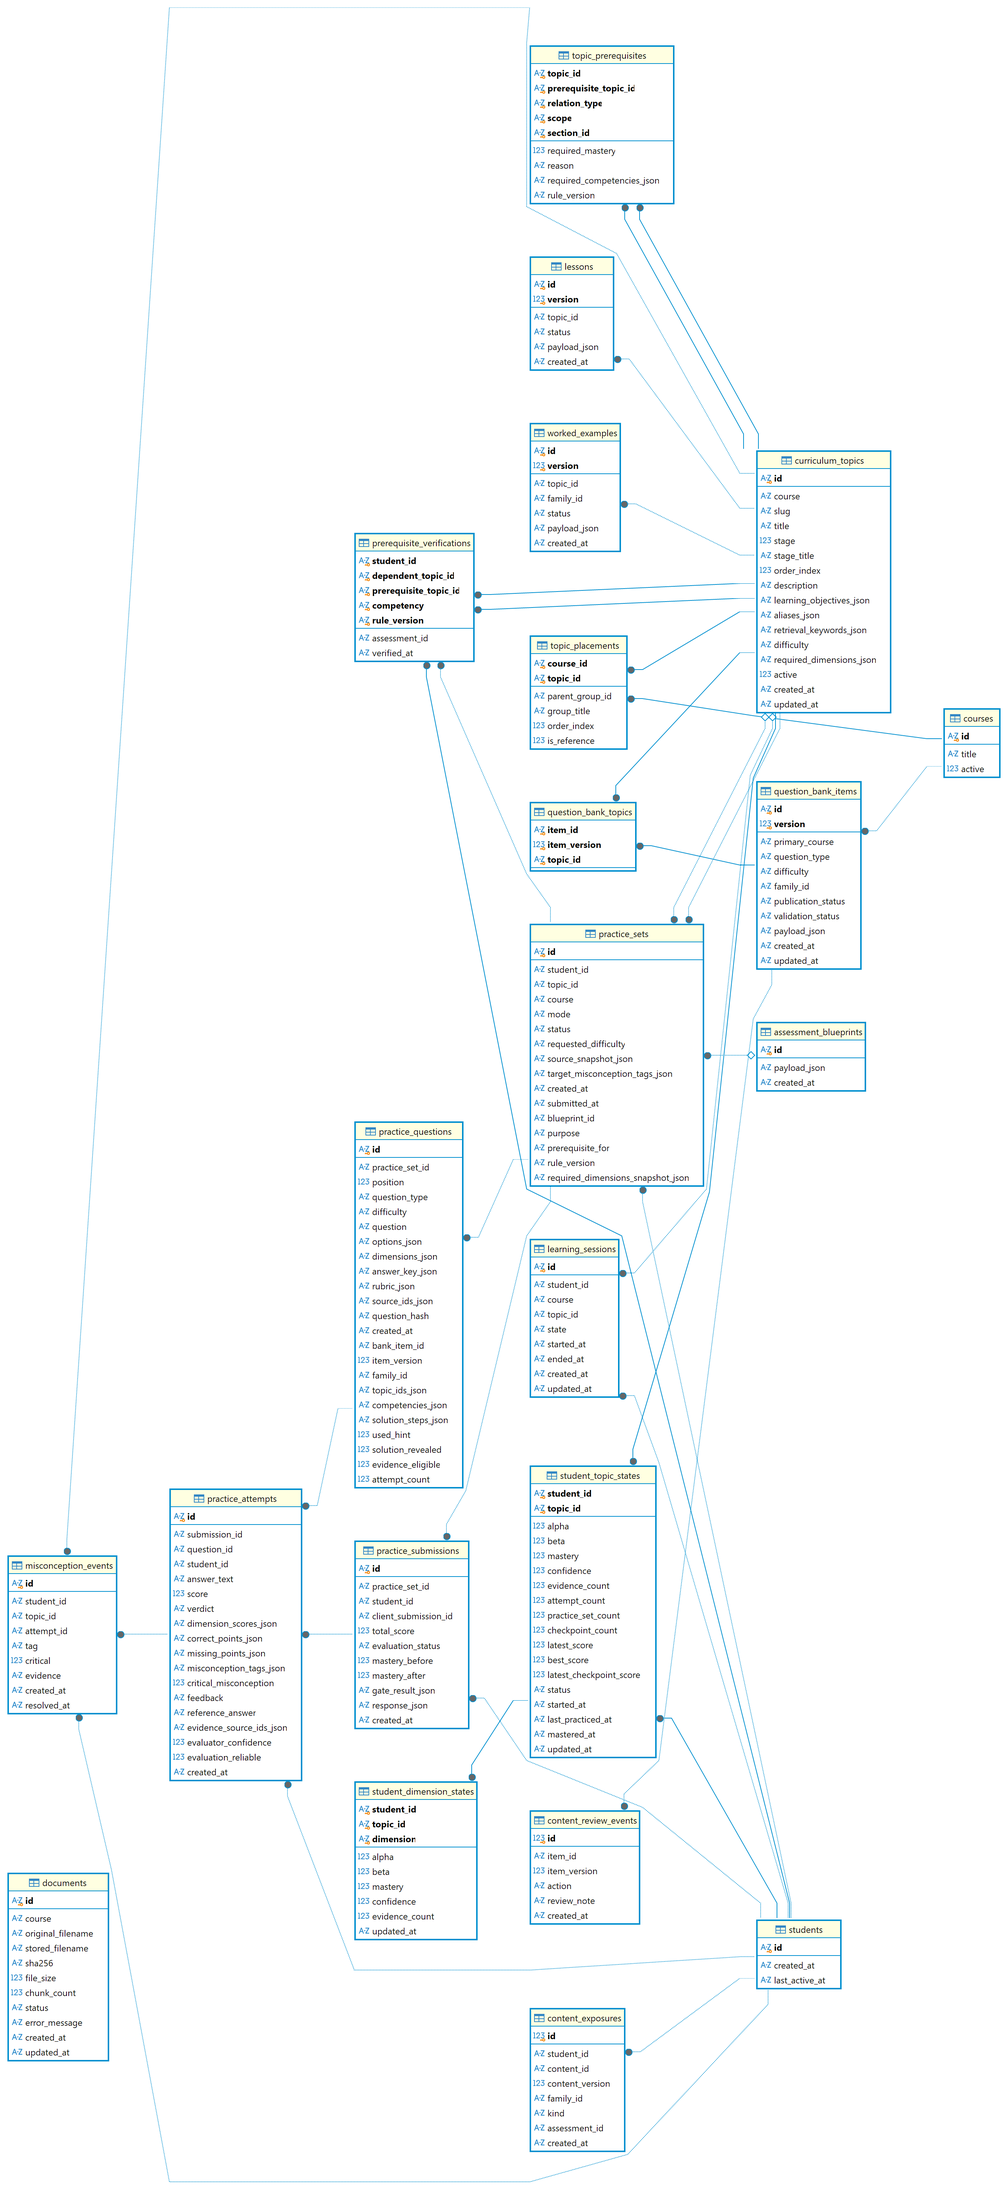
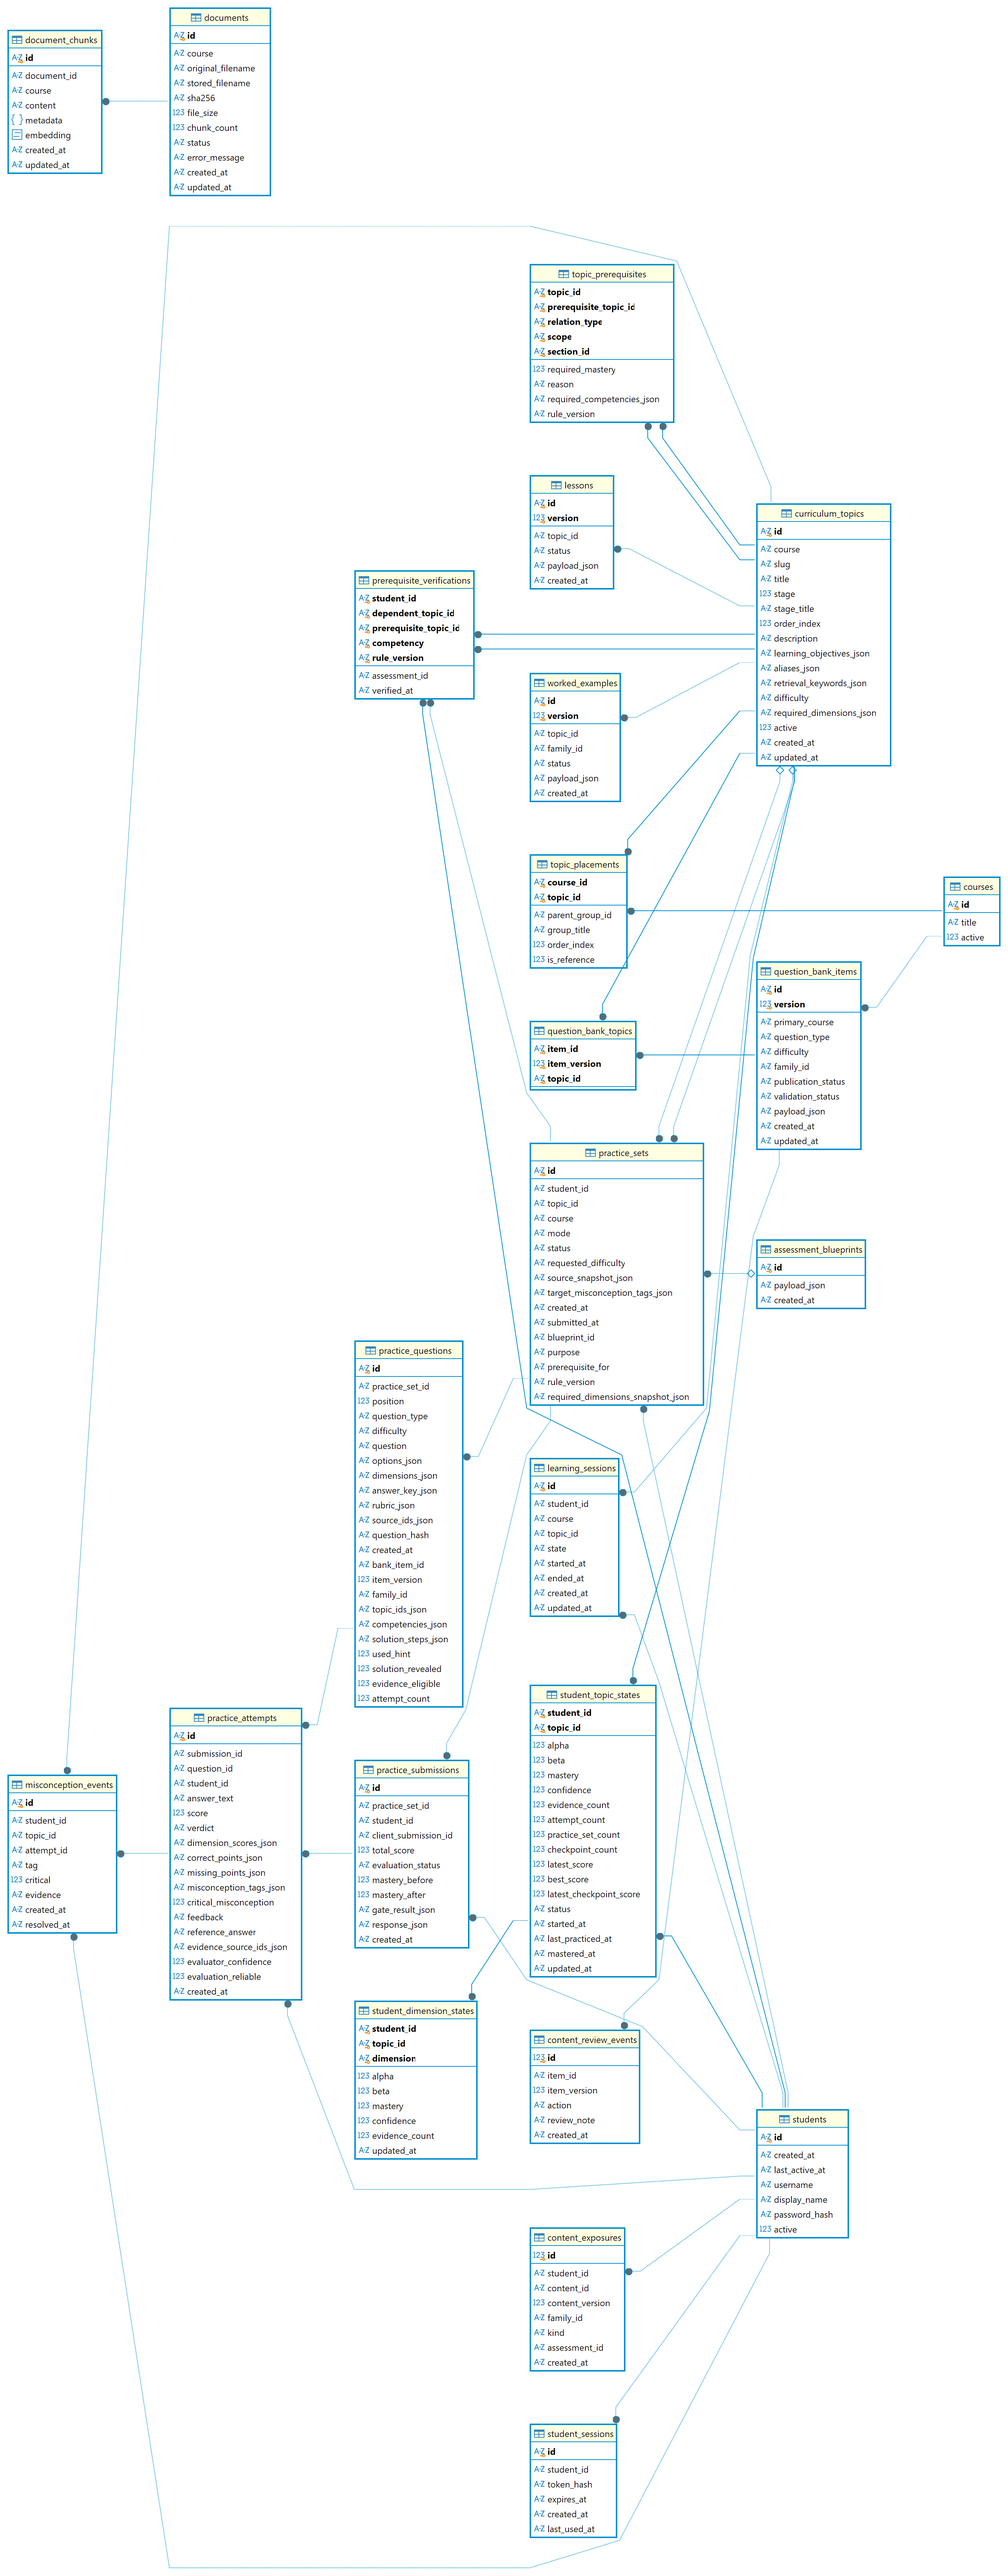
更新说明

diff --git a/README.md b/README.md
@@ -323,7 +323,7 @@ Pydantic 请求和响应模型，用于 API 数据校验与序列化。
 
 # 数据库表结构
 
-数据库结构由 `operations/database/initialize_postgresql.sql` 定义，当前使用 PostgreSQL，共 22 张业务表。表中的 `*_json` 字段保存结构化 JSON 文本；时间字段当前统一按文本格式保存，由应用层写入 ISO 8601 时间。除特别说明外，`id` 为业务标识，`created_at`、`updated_at` 等字段为记录时间。
+数据库结构由 `operations/database/initialize_postgresql.sql` 定义，当前使用 PostgreSQL，共 24 张业务表。`*_json` 字段和 `JSONB` 字段保存结构化 JSON 数据；时间字段当前统一按文本格式保存，由应用层写入 ISO 8601 时间。除特别说明外，`id` 为业务标识，`created_at`、`updated_at` 等字段为记录时间。
 
 ## 表清单
 
@@ -408,6 +408,20 @@ Pydantic 请求和响应模型，用于 API 数据校验与序列化。
 | `chunk_count` | 切分出的文本块数量 |
 | `status` | 导入状态 |
 | `error_message` | 导入失败信息，可为空 |
+| `created_at`、`updated_at` | 创建和更新时间 |
+
+### `document_chunks`：知识库文档片段与向量
+
+保存文档切分后的可检索文本、来源元数据和 pgvector Embedding。每个片段关联一份知识库文档；删除文档时其片段会级联删除。
+
+| 字段 | 说明 |
+| --- | --- |
+| `id` | 主键，文本片段标识 |
+| `document_id` | 所属知识库文档，外键关联 `documents(id)` |
+| `course` | 所属课程，用于课程隔离检索 |
+| `content` | 切分后的文本内容 |
+| `metadata` | JSONB 来源元数据，包括章节、页码、文件哈希和知识点标签 |
+| `embedding` | pgvector 向量，用于余弦、L2 或内积相似度检索 |
 | `created_at`、`updated_at` | 创建和更新时间 |
 
 ### `learning_sessions`：学习会话
@@ -595,13 +609,17 @@ Pydantic 请求和响应模型，用于 API 数据校验与序列化。
 
 该表通过 `(student_id, topic_id)` 外键关联 `student_topic_states`，主题状态删除时级联删除。
 
-### `students`：学生
+### `students`：学生账户
 
-保存匿名学生身份和活跃时间。
+保存学生账户、认证信息和活跃状态。匿名学习身份仅使用 `id` 和时间字段；注册账户同时保存用户名、显示名称和密码哈希。
 
 | 字段 | 说明 |
 | --- | --- |
 | `id` | 主键，学生标识 |
+| `username` | 登录用户名，可为空且全局唯一 |
+| `display_name` | 页面展示名称，可为空 |
+| `password_hash` | 密码哈希，可为空，不保存明文密码 |
+| `active` | 账户是否启用，`0` 或 `1`，默认 `1` |
 | `created_at` | 创建时间 |
 | `last_active_at` | 最近活跃时间 |
 
@@ -657,4 +675,4 @@ Pydantic 请求和响应模型，用于 API 数据校验与序列化。
 
 ## 主要索引
 
-初始化脚本为课程主题排序、前置主题查询、学生掌握状态、练习集与提交历史、误解事件、学习会话、题库筛选、内容曝光和文档课程/更新时间建立索引，以支持课程导航、学习仪表盘、练习评价和知识库管理等查询。
+初始化脚本为课程主题排序、前置主题查询、学生掌握状态、练习集与提交历史、误解事件、学习会话、题库筛选、内容曝光、文档课程/更新时间及文档片段的课程/文档关联建立索引，以支持课程导航、学习仪表盘、练习评价和知识库管理等查询。
